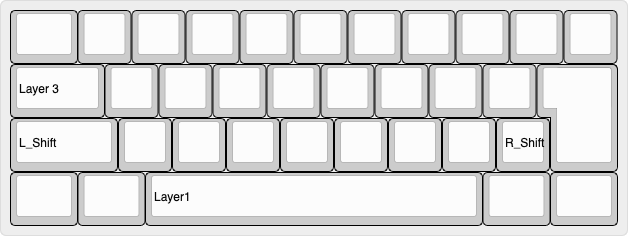
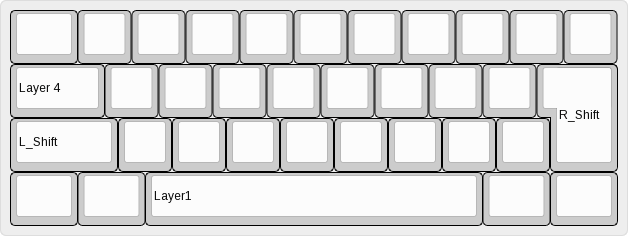
Update keymap

diff --git a/readme.md b/readme.md
@@ -8,12 +8,13 @@
 
 ## additional parts for wireless connection
 
-|Part name|Amount|Link|
-|----|----|----|
-|nice!nano compatible board|1|[aliexpress (SuperMini NRF52840)](https://ja.aliexpress.com/item/1005006035267231.html?spm=a2g0o.order_list.order_list_main.5.75ce585aIIqGNS&gatewayAdapt=glo2jpn)|
-|Li-Po battery (301230)|1|[aliexpress](https://ja.aliexpress.com/item/1005005348368664.html?spm=a2g0o.order_list.order_list_main.10.75ce585aIIqGNS&gatewayAdapt=glo2jpn)|
+| Part name                  | Amount | Link                                                                                                                                                               |
+| -------------------------- | ------ | ------------------------------------------------------------------------------------------------------------------------------------------------------------------ |
+| nice!nano compatible board | 1      | [aliexpress (SuperMini NRF52840)](https://ja.aliexpress.com/item/1005006035267231.html?spm=a2g0o.order_list.order_list_main.5.75ce585aIIqGNS&gatewayAdapt=glo2jpn) |
+| Li-Po battery (301230)     | 1      | [aliexpress](https://ja.aliexpress.com/item/1005005348368664.html?spm=a2g0o.order_list.order_list_main.10.75ce585aIIqGNS&gatewayAdapt=glo2jpn)                     |
 
 ---
+
 ## keymap
 
 ### Base (Layer 0)
@@ -31,6 +32,10 @@
 ### Layer 3
 
 ![keymap Layer3](./images/layer3.png)
+
+### Layer 4
+
+![keymap Layer4](./images/layer4.png)
 
 ### Combo (Layer 0)
 
